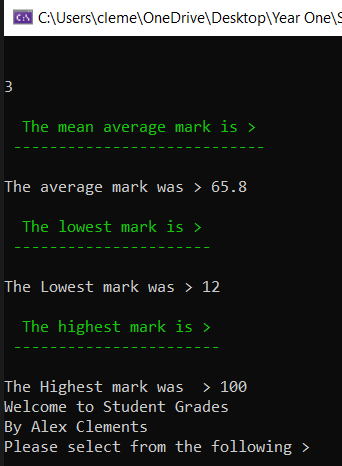
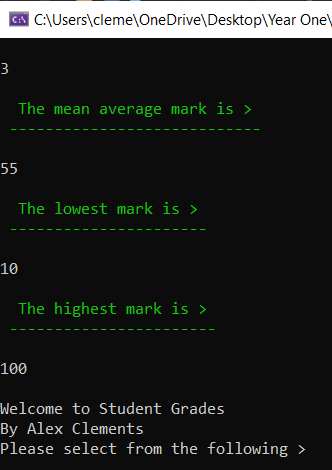
app3 testing images

diff --git a/ConsoleAppProject/App03/StudentGrades.cs b/ConsoleAppProject/App03/StudentGrades.cs
@@ -90,7 +90,7 @@ namespace ConsoleAppProject.App03
 
             else if (choice.Equals("2"))
             {
-               OutputMarks();
+                OutputMarks();
             }
 
             else if (choice.Equals("3"))
@@ -107,6 +107,7 @@ namespace ConsoleAppProject.App03
             {
                 Quit();
             }
+        }
 
         // Quits the program
 
@@ -242,21 +243,22 @@ namespace ConsoleAppProject.App03
         {
             ConsoleHelper.OutputTitle(" The mean average mark is >");
             CalculateStats();
-            Console.WriteLine($"The average mark was > {Mean}");
+            Console.WriteLine($"{Mean}");
         }
 
         private void OutputMax()
         {
             ConsoleHelper.OutputTitle(" The highest mark is >");
             CalculateStats();
-            Console.WriteLine($"The Highest mark was  > {Maximum}");
+            Console.WriteLine($"{Maximum}");
+            Console.WriteLine();
         }
 
         private void OutputMin()
         {
             ConsoleHelper.OutputTitle(" The lowest mark is >");
             CalculateStats();
-            Console.WriteLine($"The Lowest mark was > {Minimum}");
+            Console.WriteLine($"{Minimum}");
         }
     }
 
